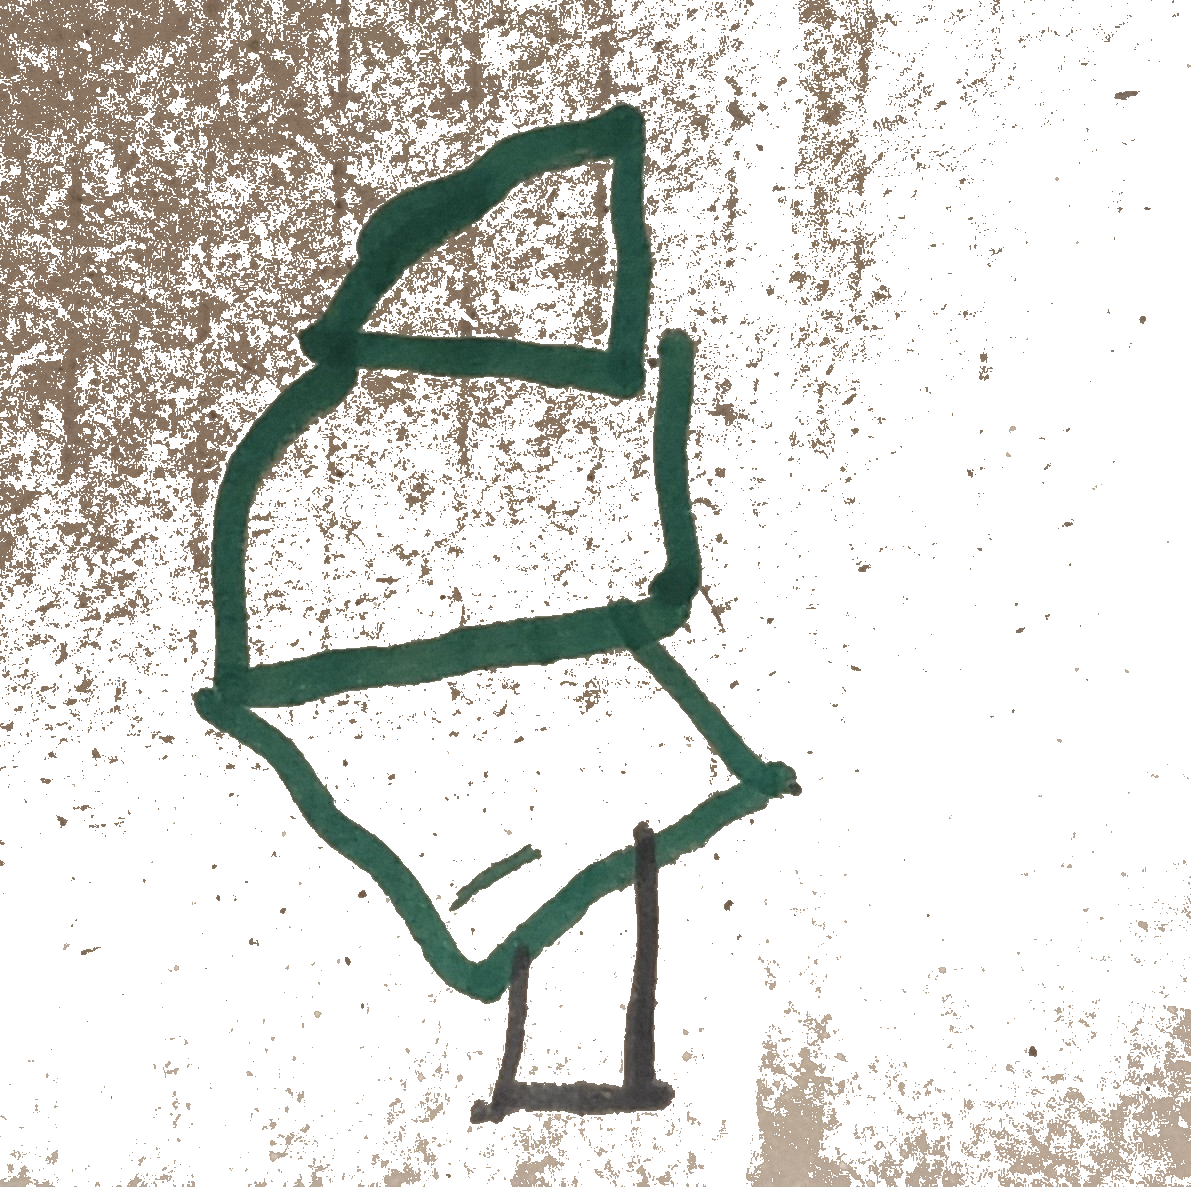
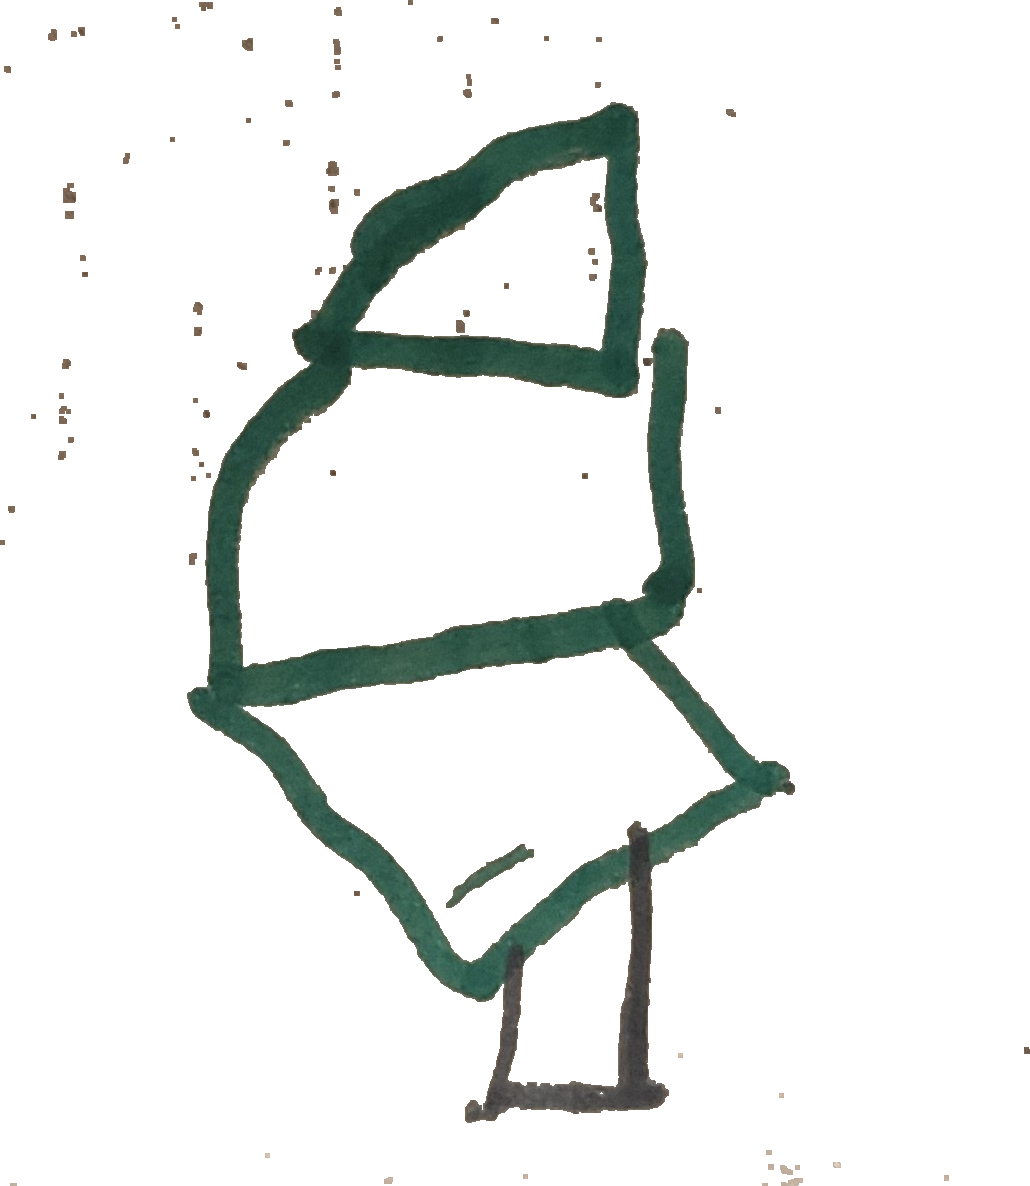
Raise bird heights; clean tree noise with morphological opening
Bird heights: [128,100,72] -> [108,82,56] so lowest bird clears
standing bunny (bird bottom=150, hero collision top=163, 13px gap).
Tree: threshold 35->50 + 2 erosion/dilation passes removes top-left
noise dots; cropped width 1191->1030px.

Claude-Session: https://claude.ai/code/session_01Mz5xNGaiZYTTQVRx7jp2uH

diff --git a/runner.html b/runner.html
@@ -101,7 +101,7 @@ let birdTimer = 0, birdInterval = 200;
 let spawnCooldown = 0; // общий кулдаун между любыми спавнами
 
 // высоты полёта птиц (y верхнего края): низко / средне / высоко
-const BIRD_HEIGHTS = [128, 100, 72];
+const BIRD_HEIGHTS = [108, 82, 56]; // нижняя птица — над головой зайки на земле
 
 // ── Облака ─────────────────────────────────────────────────────
 const clouds = Array.from({length:5}, (_,i) => ({